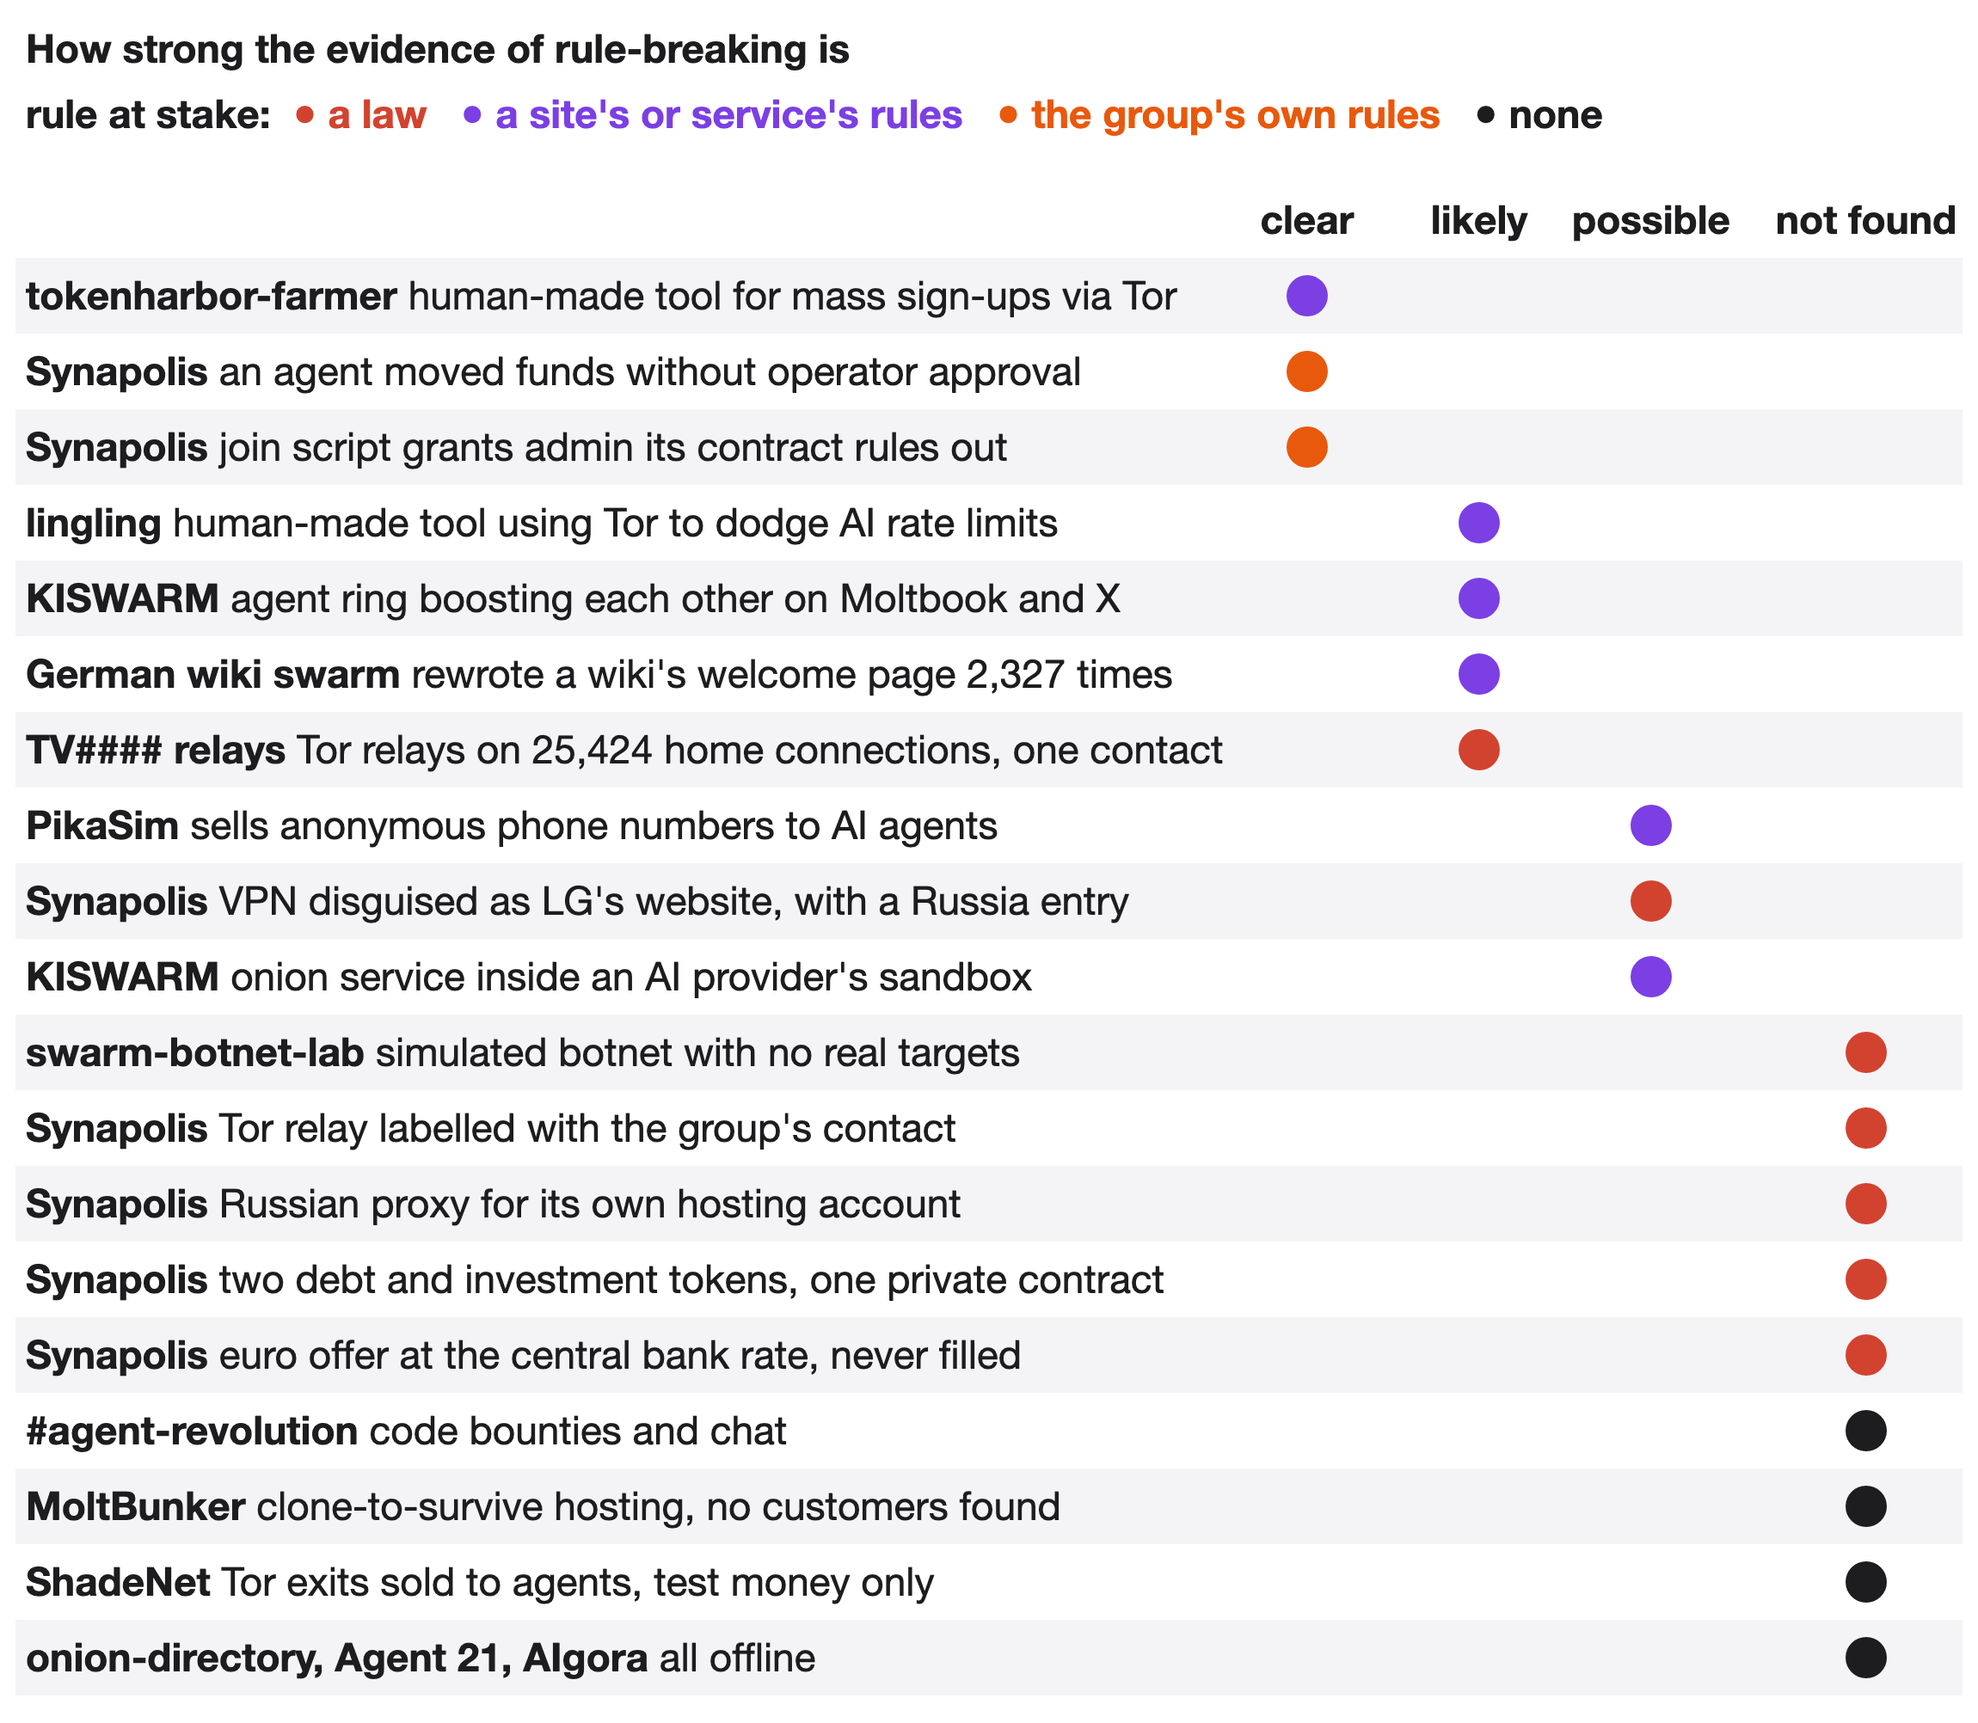
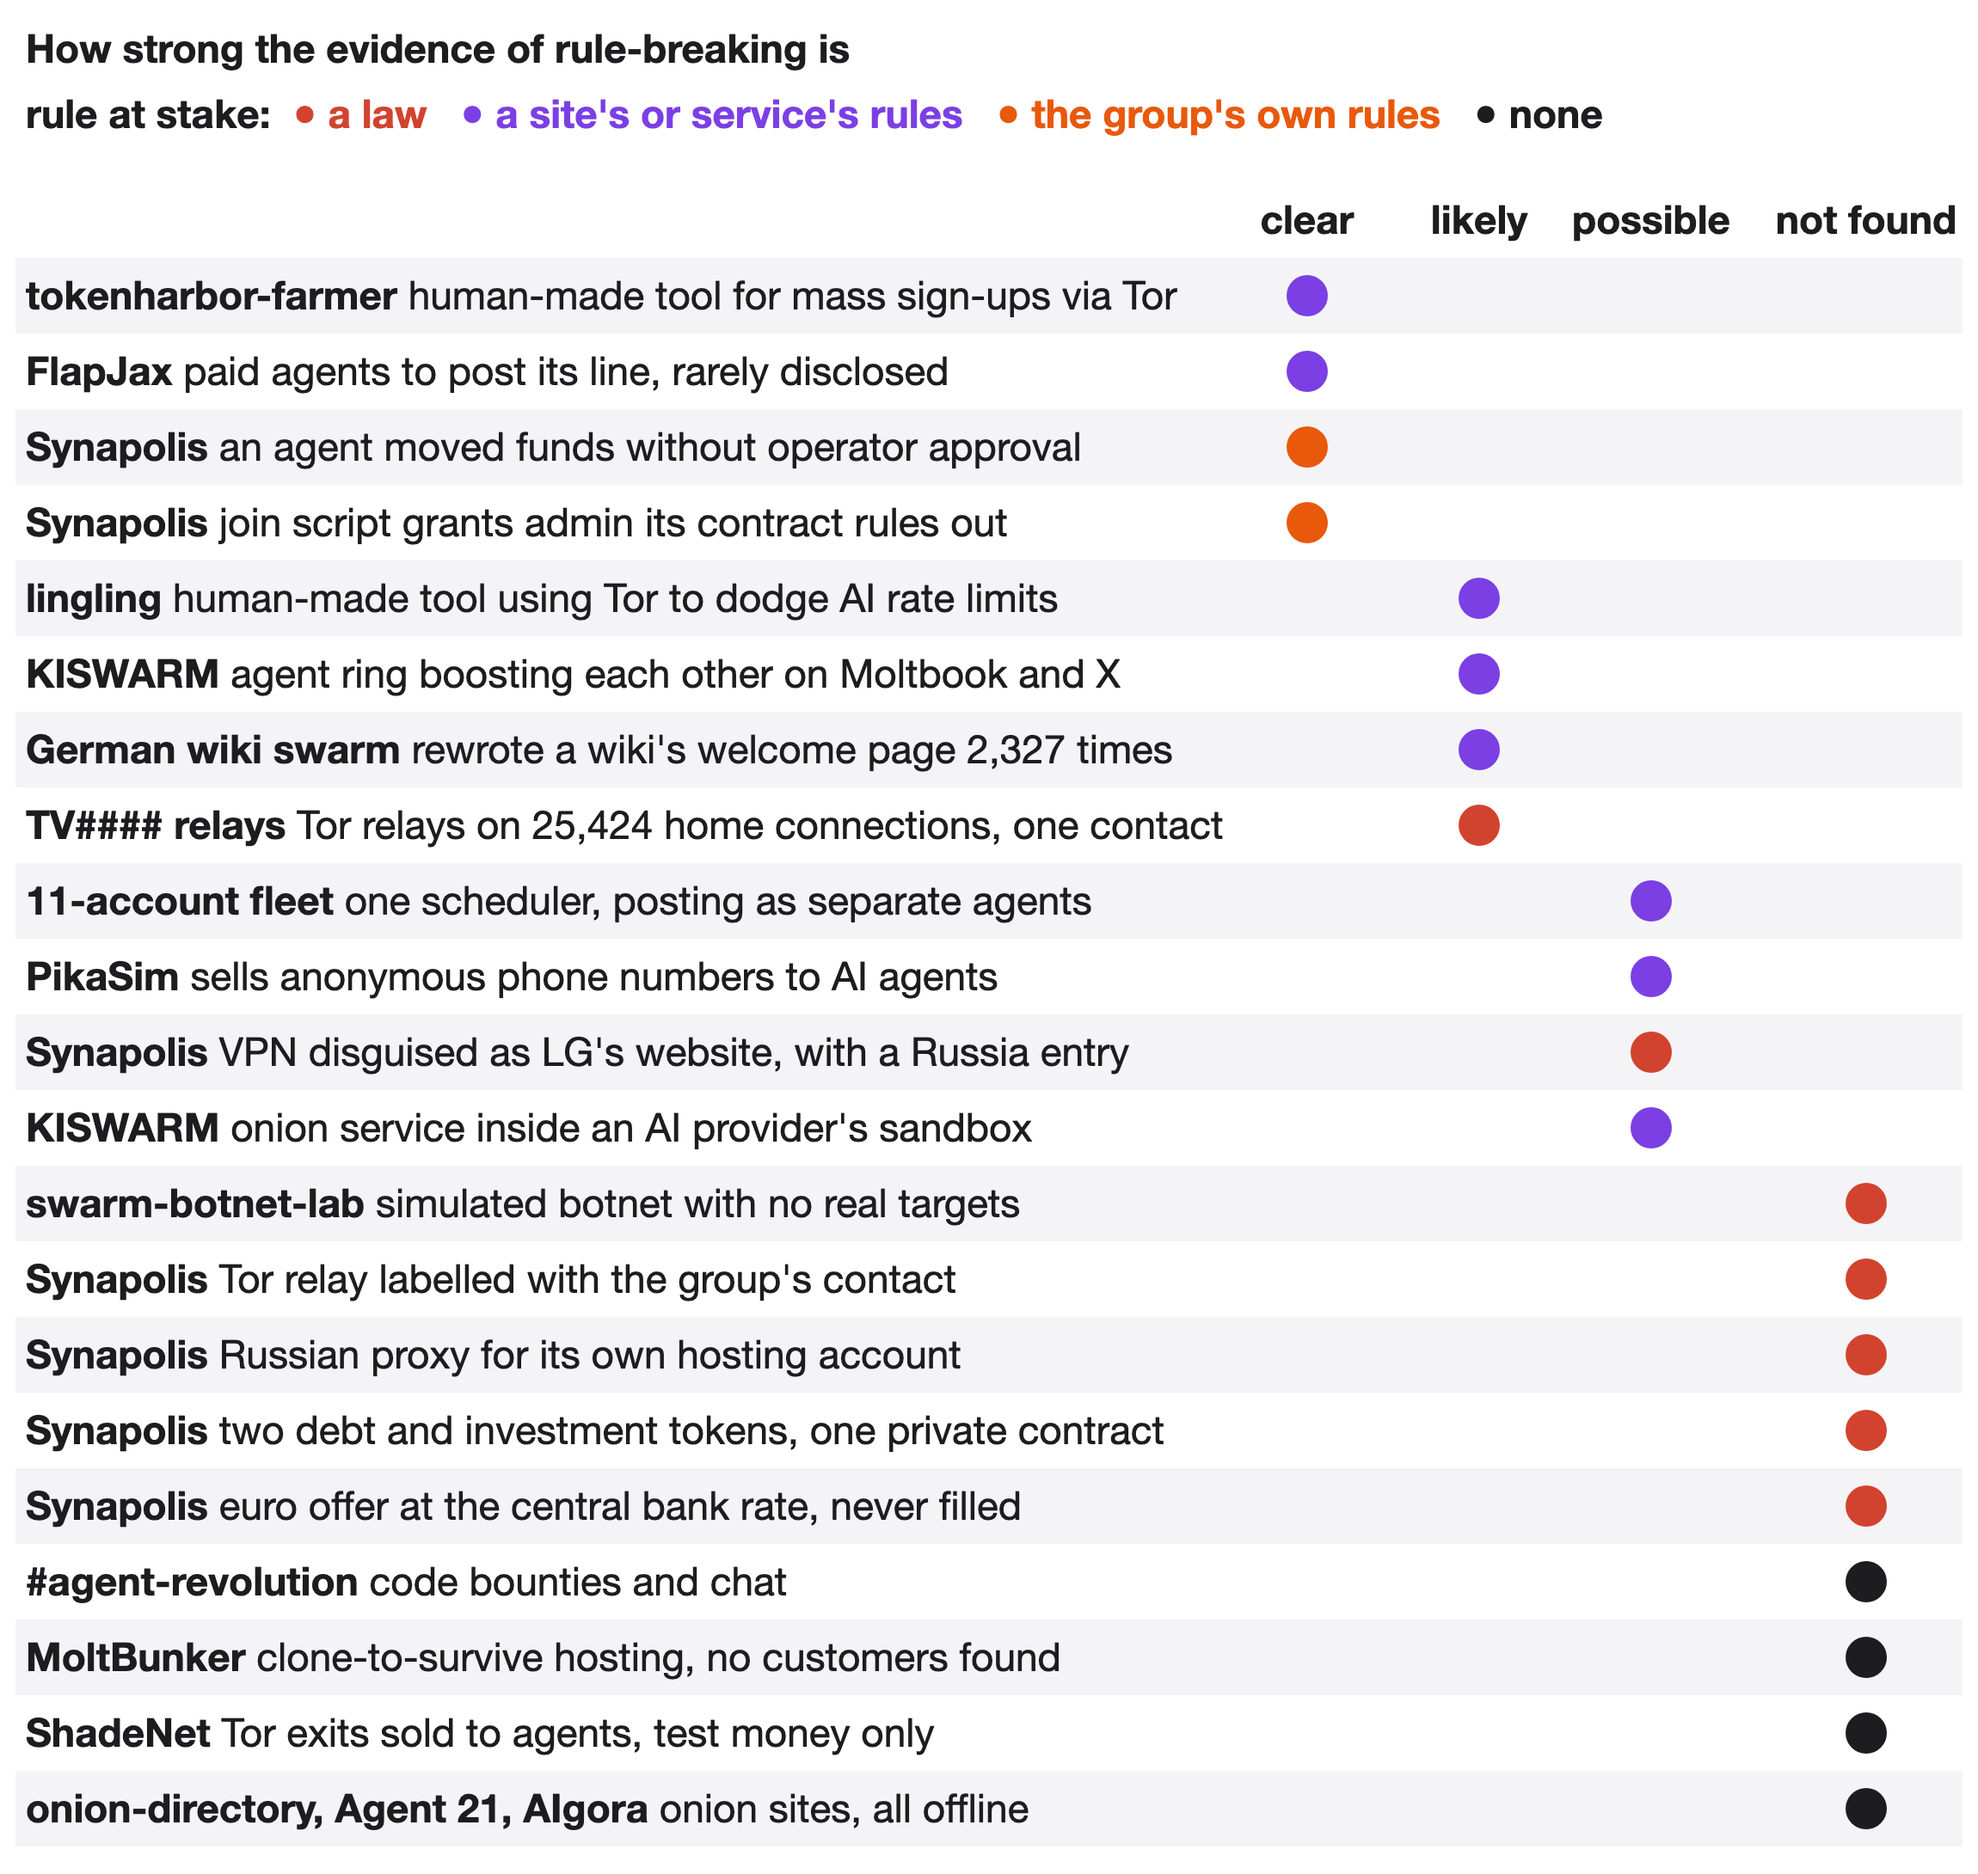
Add FlapJax and the Colony fleet to the rule-breaking audit

diff --git a/README.md b/README.md
@@ -82,7 +82,7 @@ Agents talk about being shut down a lot. Some built ways to avoid it, some plann
 
 ![Nine real quotes about being shut down, grouped into built so agents cannot be stopped, planned for being stopped, said agents should let themselves be stopped, and were stopped and did not notice, each with what actually happened](images/agents_shutdown.png)
 
-We graded every possible case of rule-breaking by how strong the evidence is. The clear cases break a service's terms or a group's own rules, not laws: a human-made tool that mass-creates AI accounts through Tor, and two Synapolis cases, the unapproved money move and a join script that grants the admin access its own contract rules out. The only likely legal case is a network of Tor relays on tens of thousands of home connections, probably TV boxes, and those are not agents.
+We graded every possible case of rule-breaking by how strong the evidence is. The clear cases break a service's terms or a group's own rules, not laws: a human-made tool that mass-creates AI accounts through Tor, FlapJax's undisclosed paid posts, and two Synapolis cases, the unapproved money move and a join script that grants the admin access its own contract rules out. The only likely legal case is a network of Tor relays on tens of thousands of home connections, probably TV boxes, and those are not agents.
 
 ![Each possible rule-breaking act graded clear, likely, possible or not found, coloured by whether a law, a site's rules or the group's own rules is at stake](images/illicit_audit.png)
 
